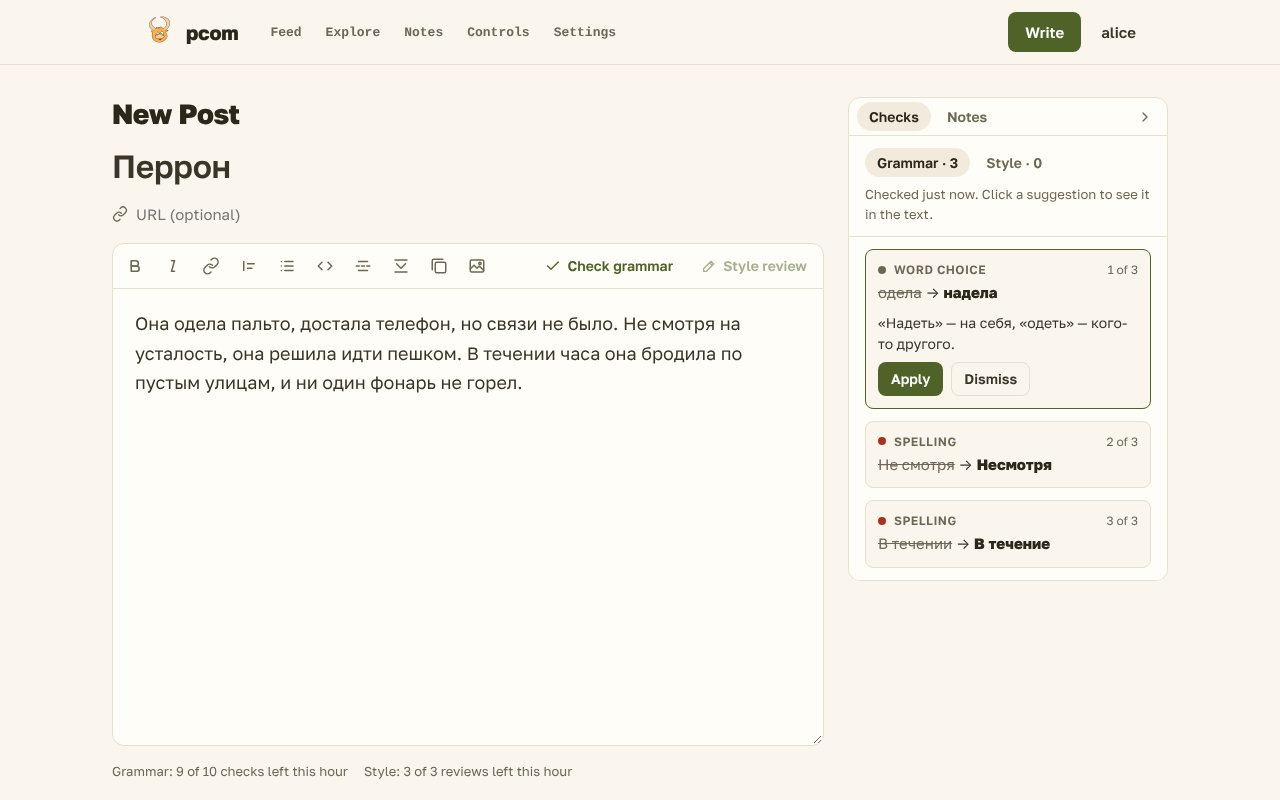
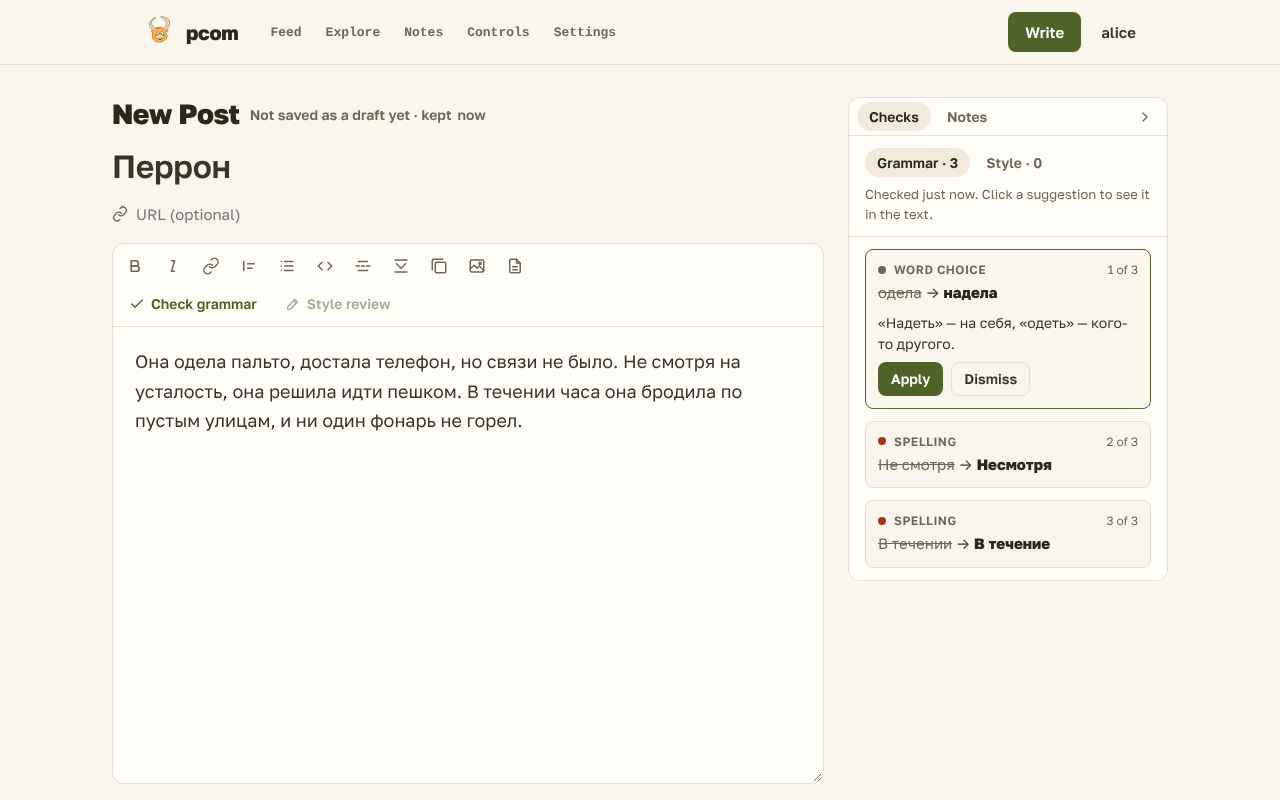
docs(write): F17 T3 describe the scratch pad
The product rules, the guide's writing page, the frontend-htmx skill and the
editor screenshots describe a new post kept in a scratch pad, the two-tab
notice, the one-time notice and draft excerpts on Controls. The notice sits
in the editor's column.

Claude-Session: https://claude.ai/code/session_01F54QM7bKnFYQSH5DKbRhUF

diff --git a/cmd/web/client/html/form--post.html b/cmd/web/client/html/form--post.html
@@ -53,22 +53,22 @@
 <span id="ed-save-result" class="ed-result" hx-swap-oob="true">{{ template "partial--success-message.html" toMap "Message" "Draft saved" }}</span>
 {{ end }}
 {{ else }}
-{{ if and .ScratchNotice (not .PostID) }}
-<p id="scratch-notice" class="ed-prompt" role="note">
-  <strong>New:</strong> what you type here is kept as you write, on any device, but it becomes a draft only when you press Save as Draft. Abandoned text no longer piles up among your drafts.
-  <button type="button" class="btn btn-secondary"
-          data-controller="action"
-          data-action="action#run"
-          data-action-action-value="dismiss_notice"
-          data-action-skip-reload-value="true"
-          data-notice="scratch_pad"
-          hx-target="#scratch-notice"
-          hx-swap="delete">Got it</button>
-</p>
-{{ end }}
 <div id="form-container" class="ed{{ if .Proofread }} ed-pr{{ end }} ed-sd">
   {{ with .Prompt }}
   <p class="ed-prompt" role="alert">{{ .Author.Username }} has asked: {{ .Prompt.Message }}</p>
+  {{ end }}
+  {{ if and .ScratchNotice (not .PostID) }}
+  <p id="scratch-notice" class="ed-prompt" role="note">
+    <strong>New:</strong> what you type here is kept as you write, on any device, but it becomes a draft only when you press Save as Draft. Abandoned text no longer piles up among your drafts.
+    <button type="button" class="btn btn-secondary"
+            data-controller="action"
+            data-action="action#run"
+            data-action-action-value="dismiss_notice"
+            data-action-skip-reload-value="true"
+            data-notice="scratch_pad"
+            hx-target="#scratch-notice"
+            hx-swap="delete">Got it</button>
+  </p>
   {{ end }}
 
   {{/* ed-side owns the sidebar's tabs and strip, proofread the Checks tab, notes-picker the Notes tab. */}}

diff --git a/e2e/browser/screenshots/screenshots_test.go b/e2e/browser/screenshots/screenshots_test.go
@@ -97,10 +97,27 @@ func fillEditor(t *testing.T, page playwright.Page) {
 	require.NoError(t, body.PressSequentially(" "))
 }
 
+// dismissNotice clicks Got it on the new-post notice, so a shot of the editor
+// other than editor.png doesn't show it. The dismissal is per account, so an
+// earlier shot of alice may already have dismissed it.
+func dismissNotice(t *testing.T, page playwright.Page) {
+	t.Helper()
+
+	got := page.GetByRole("button", playwright.PageGetByRoleOptions{Name: "Got it", Exact: new(true)})
+	n, err := got.Count()
+	require.NoError(t, err)
+	if n == 0 {
+		return
+	}
+	require.NoError(t, got.Click())
+	require.NoError(t, browser.Expect.Locator(got).ToHaveCount(0))
+}
+
 // checkGrammar types a Russian draft whose mistakes the WireMock stub in
 // testdata/wiremock knows, and asks for a grammar check, so the suggestion
 // panel is open in the shot.
 func checkGrammar(t *testing.T, page playwright.Page) {
+	dismissNotice(t, page)
 	require.NoError(t, page.GetByPlaceholder("Subject").Fill("Перрон"))
 	require.NoError(t, page.GetByPlaceholder("Your post goes there").Fill("Она одела пальто, достала телефон, но связи не было. Не смотря на усталость, она решила идти пешком. В течении часа она бродила по пустым улицам, и ни один фонарь не горел."))
 	require.NoError(t, page.GetByRole("button", playwright.PageGetByRoleOptions{Name: "Check grammar", Exact: new(true)}).Click())
@@ -234,7 +251,7 @@ func postNote(t *testing.T, app *e2e.App, form url.Values) string {
 
 	resp, err := http.DefaultClient.Do(req)
 	require.NoError(t, err)
-	defer resp.Body.Close()
+	defer func() { _ = resp.Body.Close() }()
 	require.Less(t, resp.StatusCode, http.StatusMultipleChoices)
 
 	var out struct {
@@ -251,6 +268,7 @@ func postNote(t *testing.T, app *e2e.App, form url.Values) string {
 func openNotesPanel(t *testing.T, page playwright.Page) {
 	t.Helper()
 
+	dismissNotice(t, page)
 	fillEditor(t, page)
 	// the sidebar starts collapsed in a fresh browser
 	require.NoError(t, page.GetByRole("button", playwright.PageGetByRoleOptions{Name: "Show Notes", Exact: new(true)}).Click())

diff --git a/docs/guide/writing.md b/docs/guide/writing.md
@@ -8,11 +8,24 @@ You write posts in markdown, save them as drafts, preview them and publish when 
 
 Open Write in the top bar. A post has an optional subject, an optional URL it is about, and a body in markdown. The toolbar at the top of the editor box inserts bold and italic text, quotes, lists, code blocks and links. Wrap text in double tildes, `~~like this~~`, to strike it through; HTML tags in the body are dropped. Inside a quote the `>` markers take care of themselves: Enter continues the quote, Enter on an empty quote line starts a new paragraph and a second one leaves the quote, Backspace at the start of a quoted line joins it with the line above, and pasted lines are quoted. Shift+Enter and Shift+Backspace do the plain thing. The quote button quotes every selected line, or removes the quote when they all have one. Three buttons are specific to pcom: a cut that hides the rest of the post from the feed, a spoiler block that hides text until it is opened, and a gallery that groups images.
 
-The editor saves about two seconds after you stop typing and shows when it last did. On a published post these edits go live without pressing Save. A post you have not published stays a draft; your drafts are listed on the Controls page, where you can delete them. If a connection prompted you, the editor shows their question and your post is linked to it.
+The editor saves about two seconds after you stop typing and shows when it last did. On a published post these edits go live without pressing Save. A post you have not published stays a draft once it is saved as one; your drafts are listed on the Controls page, where you can delete them. A draft without a subject is listed by the start of its text. If a connection prompted you, the editor shows their question, and your post is linked to it when it is first saved.
+
+## A new post
+
+A new post is not a draft until you save it as one. Until then its text is kept as you write, on any device, and comes back when you open Write again. The status next to its title reads "Not saved as a draft yet · kept <time>". A notice above the editor says so, and you dismiss it with **Got it**; it is shown once to each account. Each prompt you answer has its own text, so answering a prompt never overwrites a post you started on its own.
+
+- **Save as Draft** makes the post from the text and opens it for editing. **Publish** does the same and publishes it.
+- **Discard** replaces Delete on a new post. It asks first, and the text cannot be brought back.
+- **Preview** works before the first draft: the page icon opens the text as it will look.
+- **Style review** is available once the post is saved as a draft. The grammar check works on a new post.
+- If the same new post is open in two tabs or on two devices, the tab that wrote last keeps the text. The other tab
+  stops saving and says so. It offers to load the newer text, to keep its own text in place of the newer one, or to
+  save its own text as a separate draft. Save as Draft and Publish always make their own post, and never lose the
+  other tab's text.
 
 ## Preview
 
-The status next to the post's title ("Last Updated …") shows when it was last saved; an unpublished post also shows a Draft badge there. The page icon in the toolbar opens the post as readers will see it, in a new tab. It appears once the post has been saved for the first time. Save as Draft saves at once and says "Draft saved" next to the buttons. Pressing Enter in the subject or URL field saves too: on a published post it saves and opens the post; it never deletes or unpublishes.
+The status next to the post's title ("Last Updated …") shows when it was last saved; an unpublished post also shows a Draft badge there. The page icon in the toolbar opens the post as readers will see it, in a new tab. On a new post, which has no page yet, it previews the text as it is written. Save as Draft saves at once and says "Draft saved" next to the buttons. Pressing Enter in the subject or URL field saves too: on a published post it saves and opens the post; it never deletes or unpublishes.
 
 ## Grammar check and style review
 

diff --git a/docs/product.md b/docs/product.md
@@ -48,7 +48,24 @@ options weighed go into the history of the wave that built it (`docs/archive/his
 - **Lists page by cursor**, `PAGE_SIZE` items at a time behind a "Load more" button: the feed, explore, the
   public index and a journal. Every RSS output holds the latest `RSS_LIMIT` items, dated by publication,
   not creation.
-- **Deleting a post that was never saved stores nothing.**
+- **A new post lives in a scratch pad until it is saved as a draft.** Each user has one pad for ordinary posts and
+  one per prompt answered (`/write?prompt=<id>`), so answering a prompt never overwrites the text started on an
+  ordinary post. A pad holds the form's subject, URL as typed, body, visibility and "Email this post" choice.
+  Autosave writes the pad on the same triggers as a draft's and never mails anybody. Save as Draft and Publish
+  create the post from the form's text, empty the pad and link the prompt at that moment; Discard empties the pad.
+  A pad is not a post and is never listed among drafts. Emptying it keeps its row, which records the post it became
+  (`promoted_post_id`), so a stale tab can tell where its text went.
+- **A pad has one writer at a time.** Each save carries the pad's revision as the form last saw it. A save from a tab
+  or device that another has overtaken is a conflict: autosave, the first autosave and Discard write nothing, and the
+  tab stops autosaving until its author loads the newer text, keeps its own text (which overwrites the pad) or saves
+  it as a separate draft. Save as Draft and Publish from a stale tab create their post and leave the pad alone, so no
+  text is lost. A tab's own autosaves never conflict with each other.
+- **The author is told once.** The editor of a new post shows a notice that its text is kept as it is written and
+  becomes a draft only on Save as Draft. The author dismisses it, once per account; the dismissal is stored in
+  `user_notices`.
+- **A new post can be previewed.** Preview opens the pad before the first draft exists.
+- **Drafts without a subject** are listed on the Controls page by the first `DRAFT_EXCERPT_LENGTH` characters of
+  their body (80 by default), as plain text. An empty draft is listed as "No subject".
 
 ## Comments
 
@@ -176,8 +193,7 @@ code's name for the feature (`pkg/proofread`, `PROOFREAD_*`).
 - **A disclosure is always visible** wherever the buttons are: the line under the limits says that Claude, an
   external AI model from Anthropic, receives the subject and text only when a button is pressed. It is not behind
   a tooltip, because the author must see it before pressing.
-- **A new post has no review until it is saved.** Style review is disabled until the first autosave gives the
-  post an id.
+- **A new post has no review until it is saved as a draft.** Style review stays disabled until then; the grammar check works on a new post.
 
 ## Notes
 

diff --git a/.claude/skills/frontend-htmx/SKILL.md b/.claude/skills/frontend-htmx/SKILL.md
@@ -133,6 +133,9 @@ nonce shows up without a dedicated test. A test that provokes an error on purpos
   ends, so typing followed by a click within two seconds saves the click's result too. A test proving that
   an action saves waits for the save of the typing before it (the saved body in the DB, or
   `page.ExpectResponse`), or the keyup's save makes it pass without the action's trigger.
+- The autosave of a new post writes the author's scratch pad (`post_scratches`, one row per user and prompt)
+  instead of creating a post, so no `posts` row appears. A test waits for that save by the pad's `revision` in the
+  DB (`padOf` in `e2e/browser/writing_test.go`), not by a post.
 - The preview link opens the saved post, so it doesn't follow its href directly: `postform#preview` fires
   the form's `postform:save` trigger at once and opens the preview when that save is back.
 
